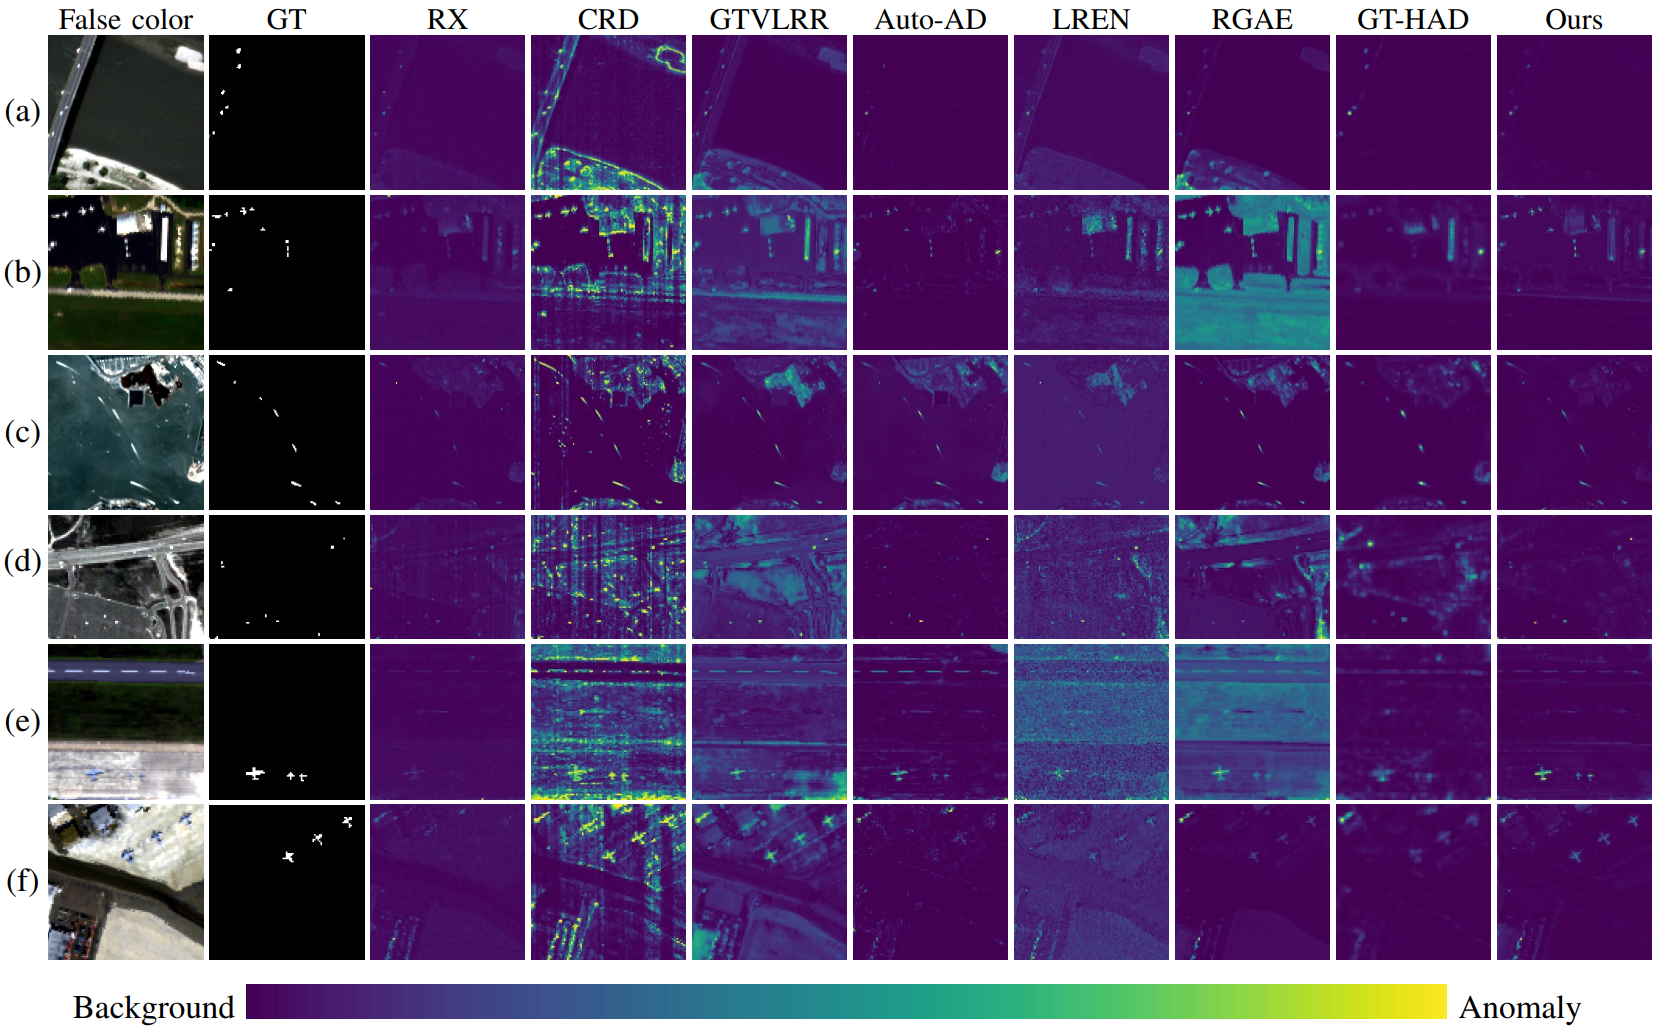
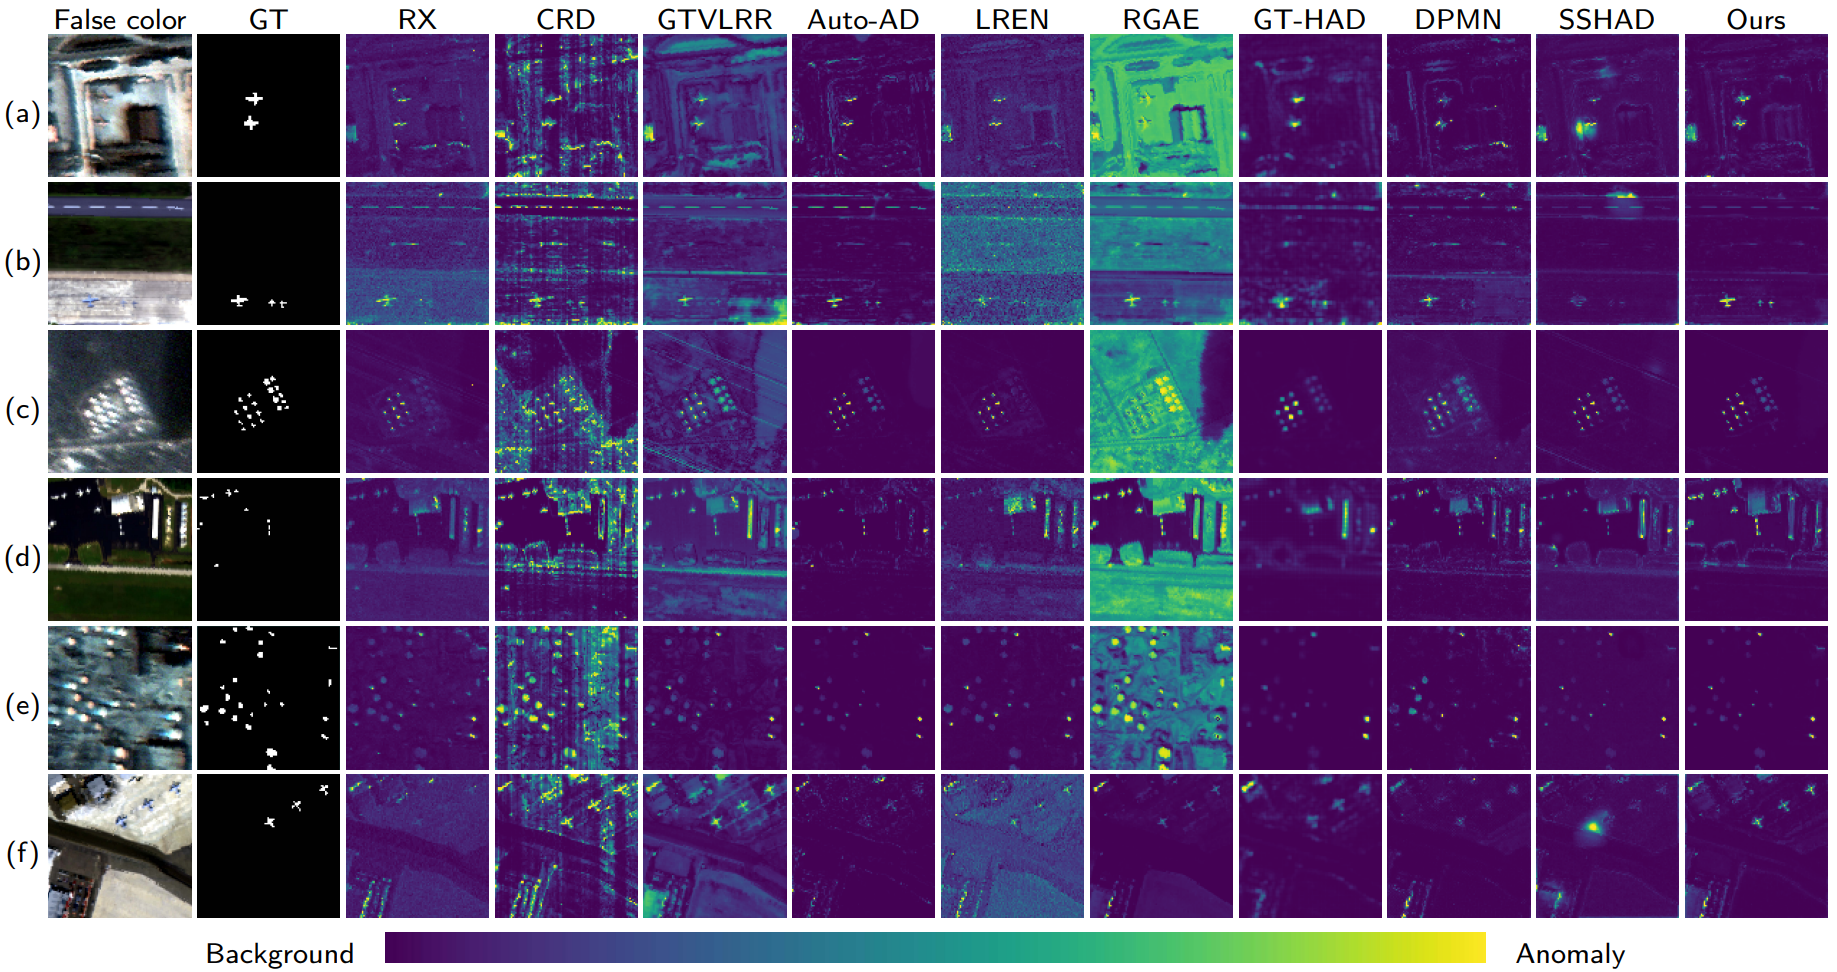
修改README

diff --git a/README.md b/README.md
@@ -1,18 +1,18 @@
-# FMCNet: A Fast Mamba–Convolution Hybrid Network for Hyperspectral Anomaly Detection
+# FMCNet: A Fourier-Guided Mamba-Convolution Hybrid Network for Efficient Hyperspectral Anomaly Detection
 
-------
+---
 
 ## Code Availability
 
 The implementation of FMCNet will be made publicly available upon acceptance of the paper.
 
-------
+---
 
 ## Abstract
 
-Hyperspectral anomaly detection (HAD) aims to identify anomalous targets that deviate from background regions in hyperspectral images and has attracted increasing attention in remote sensing data processing. Existing deep learning methods typically rely on deep network stacking or self-attention, which improve detection accuracy but also incur prohibitive computational costs. To overcome this limitation, we propose FMCNet, a fast Mamba-Convolution hybrid network for hyperspectral anomaly detection, which is specifically designed to integrate computationally efficient spectral-spatial modeling and background reconstruction. Specifically, a state-space model branch explicitly incorporates Fourier frequency bias into the Mamba modeling process to capture long-range spectral dependencies with linear computational complexity. Concurrently, a spatial branch utilizes depthwise separable convolutions and adaptive positional encoding to efficiently perceive global spatial structures. Furthermore, to prevent improper spatial-spectral fusion from degrading background reconstruction, an adaptive spatial-spectral fusion gating (SSFG) module is proposed to dynamically allocate competitive weights to spectral and spatial features, thereby enabling stable feature fusion and suppressing background redundancy. Extensive experiments on six public hyperspectral datasets demonstrate that FMCNet achieves state-of-the-art detection accuracy while significantly reducing inference time, showing strong potential for practical fast HAD applications.
+Hyperspectral anomaly detection (HAD) aims to identify rare and unknown targets that deviate from dominant background patterns in hyperspectral remote sensing imagery. Recent deep learning-based detectors have improved detection performance, but many of them rely on deeply stacked architectures or self-attention-based global modeling, resulting in non-negligible computational overhead when processing high-dimensional hyperspectral data. To address this accuracy--efficiency trade-off, we propose FMCNet, a Fourier-guided Mamba--convolution hybrid network for efficient hyperspectral anomaly detection. FMCNet adopts a depth-configurable dual-branch reconstruction architecture in which Fourier-basis priors are embedded before spectral state-space modeling and spatial convolutional modeling. In the spectral branch, spectral Fourier bias maps ordered selected-channel indices to channel-wise guidance terms and injects them before Mamba state-space modeling, thereby conditioning spectral dependency learning with Fourier-basis channel-order cues. In the spatial branch, adaptive Fourier positional encoding generates coordinate-aware cues and concatenates them with the input feature before depthwise separable convolution, thereby conditioning convolutional spatial modeling without self-attention-based pairwise spatial interactions. The spectral and spatial representations are further integrated by a spatial--spectral fusion gating module, which assigns competitive adaptive weights to the two branches to stabilize feature aggregation and suppress redundant background responses. The fused representation is used to reconstruct the hyperspectral background, and the anomaly map is generated from pixel-wise residuals between the input and reconstructed hyperspectral image. Experiments on six public hyperspectral datasets show that FMCNet achieves the highest AUC scores among the compared methods and provides a favorable accuracy--efficiency trade-off, with lower inference time than recent deep learning-based detectors.
 
-------
+---
 
 ## Detection Results
 